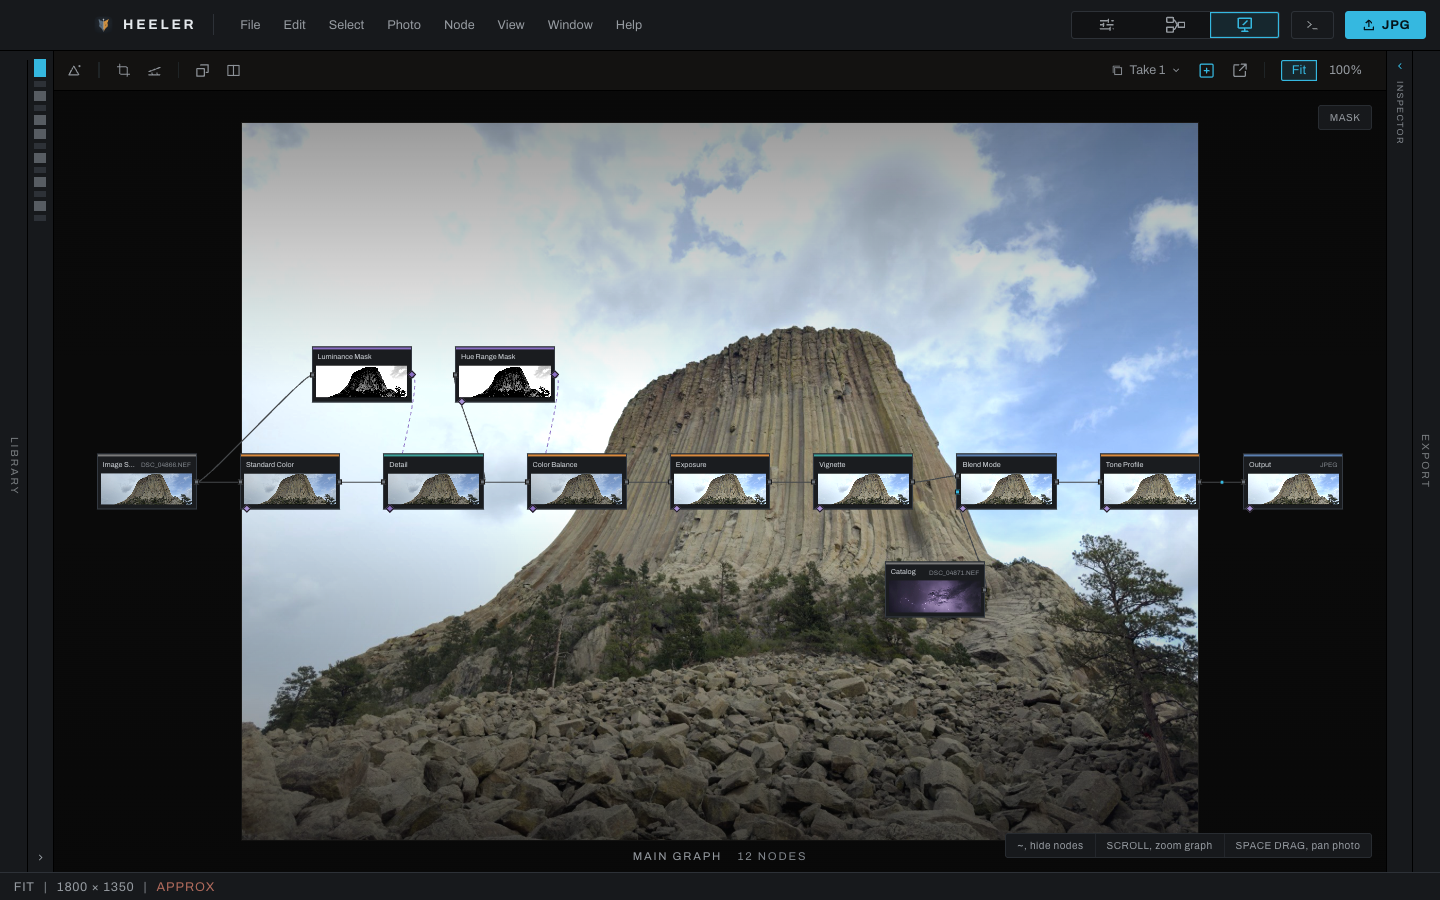
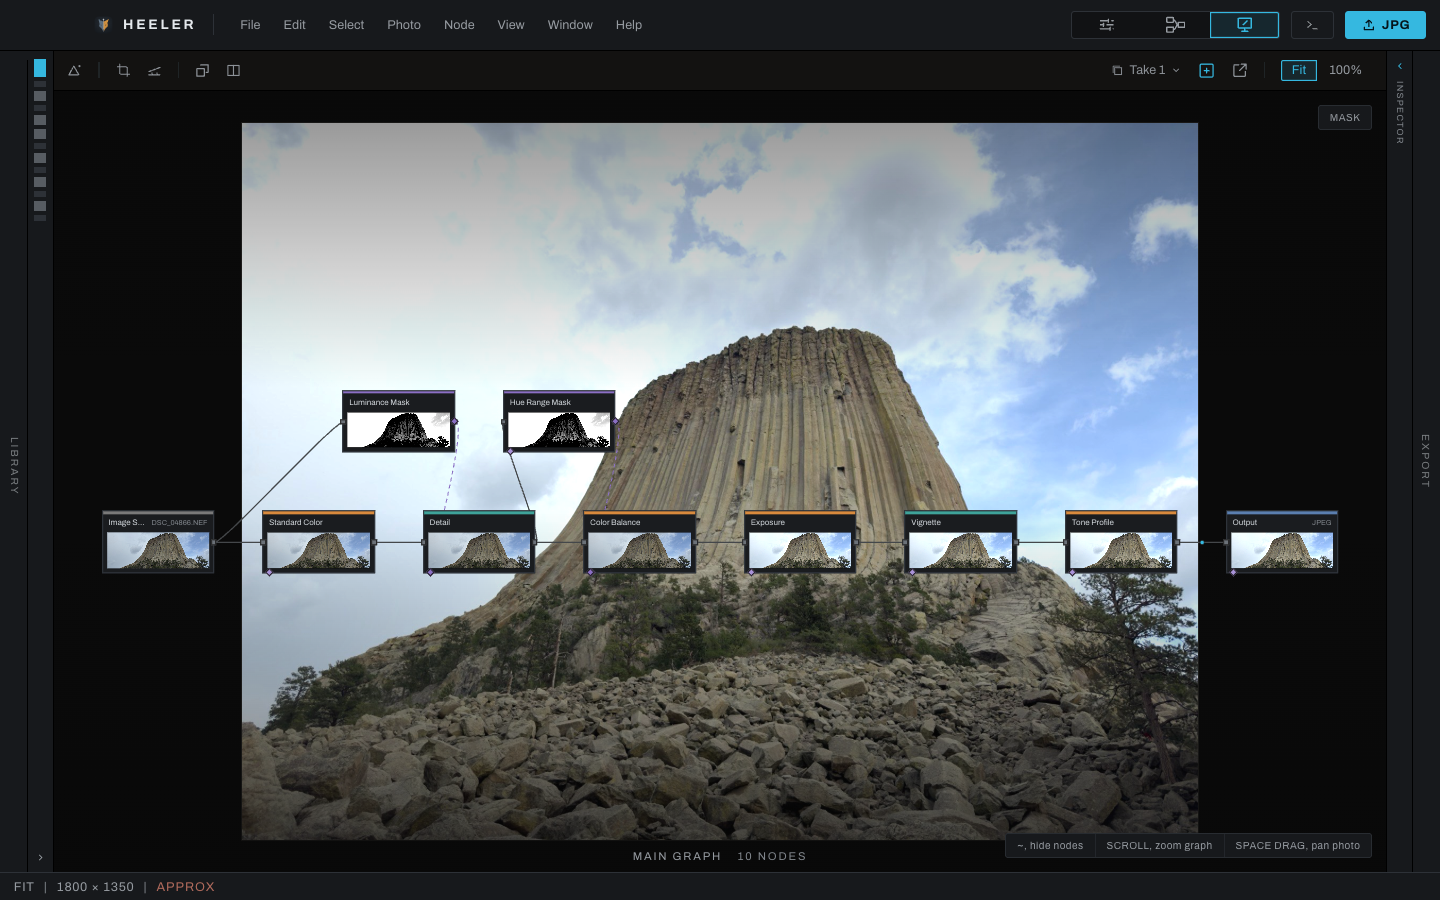
The README's Canvas and Graph figures drop the Catalog and Blend Mode nodes (Ed, 2026-10-09: "neither makes sense, just get rid of the image input node"). The graphs are the edit and its two alpha masks: a Luminance Mask steering Detail to the bright rock and a Hue Range Mask steering the color to t

Changed region(s): [[0.0625, 0.3733, 0.9375, 0.6844]]

diff --git a/README.md b/README.md
@@ -9,9 +9,9 @@ Two ways to work on the same photograph. Develop is the linear workflow: sliders
 
 ![The Develop workspace: Exposure, Color, Detail, Color Wheels and Vignette set with sliders](docs/readme/develop-edit.png)
 
-Underneath, every section you touch is a node. The Canvas shows the graph under the hood, drawn over the photograph, and lets you build on it: here a Luminance Mask keeps Detail to the bright rock, a Hue Range Mask keeps Color Balance to the sky, and a lightning storm from the catalog is screened into the sky:
+Underneath, every section you touch is a node. The Canvas shows the graph under the hood, drawn over the photograph, and lets you build on it: here a Luminance Mask keeps Detail to the bright rock and a Hue Range Mask keeps Color Balance to the sky:
 
-![The Canvas workspace: the Develop edit as nodes, with two masks branching off to steer Detail and Color Balance and a lightning storm from the catalog screened in from below](docs/readme/canvas.png)
+![The Canvas workspace: the Develop edit as nodes, with two masks branching off to steer Detail and Color Balance](docs/readme/canvas.png)
 
 ## Not another copy of the editor you already know
 
@@ -23,7 +23,7 @@ Every edit in Heeler is a node, from the RAW decode to the export. The Develop p
 
 Recipes like Sharpening and Skin Softening are not sealed effects: they are groups of ordinary nodes you can open and change. Start with sliders, and move to the graph the day you want more control.
 
-![The Graph workspace: two masks steer a Detail and a Color Grade, a lightning storm is screened in, and the inspector shows the selected node's controls](docs/readme/graph.png)
+![The Graph workspace: two masks steer a Detail and a Color Grade, and the inspector shows the selected node's controls](docs/readme/graph.png)
 
 ### It knows how far away everything is
 
